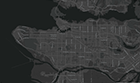
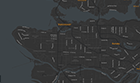
2.0.2 map styles

diff --git a/src/components/map.jsx b/src/components/map.jsx
@@ -44,42 +44,41 @@ var _currentSearchType;
 var _suppressBoundaryChangeUpdate = false;
 
 
-function CenterControl(controlDiv, map) {
-
-  // Set CSS for the control border.
-  var controlUI = document.createElement('div');
-  controlUI.style.backgroundColor = '#fff';
-  controlUI.style.border = '2px solid #fff';
-  controlUI.style.borderRadius = '3px';
-  controlUI.style.boxShadow = '0 2px 6px rgba(0,0,0,.3)';
-  controlUI.style.cursor = 'pointer';
-  controlUI.style.marginBottom = '22px';
-  controlUI.style.textAlign = 'center';
-  //controlUI.title = 'Click to recenter the map';
-  controlDiv.appendChild(controlUI);
-
-  // Set CSS for the control interior.
-  var controlText = document.createElement('div');
-  controlText.style.color = 'rgb(25,25,25)';
-  controlText.style.fontFamily = 'Roboto,Arial,sans-serif';
-  controlText.style.fontSize = '12px';
-  controlText.style.lineHeight = '26px';
-  controlText.style.paddingLeft = '5px';
-  controlText.style.paddingRight = '5px';
-  controlText.innerHTML = 'Roadmap';
-  controlUI.appendChild(controlText);
-
-  // Setup the click event listeners: simply set the map to Chicago.
-  controlUI.addEventListener('click', function () {
-    console.log('k');
-  });
-}
+//function CenterControl(controlDiv, map) {
+//  // Set CSS for the control border.
+//  var controlUI = document.createElement('div');
+//  controlUI.style.backgroundColor = '#fff';
+//  controlUI.style.border = '2px solid #fff';
+//  controlUI.style.borderRadius = '3px';
+//  controlUI.style.boxShadow = '0 2px 6px rgba(0,0,0,.3)';
+//  controlUI.style.cursor = 'pointer';
+//  controlUI.style.marginBottom = '22px';
+//  controlUI.style.textAlign = 'center';
+//  //controlUI.title = 'Click to recenter the map';
+//  controlDiv.appendChild(controlUI);
+//
+//  // Set CSS for the control interior.
+//  var controlText = document.createElement('div');
+//  controlText.style.color = 'rgb(25,25,25)';
+//  controlText.style.fontFamily = 'Roboto,Arial,sans-serif';
+//  controlText.style.fontSize = '12px';
+//  controlText.style.lineHeight = '26px';
+//  controlText.style.paddingLeft = '5px';
+//  controlText.style.paddingRight = '5px';
+//  controlText.innerHTML = 'Roadmap';
+//  controlUI.appendChild(controlText);
+//
+//  // Setup the click event listeners: simply set the map to Chicago.
+//  controlUI.addEventListener('click', function () {
+//    console.log('k');
+//  });
+//}
 
 
 var styles = {
   [C.MAP_STYLES.DEFAULT]: [{"featureType":"road","elementType":"geometry","stylers":[{"lightness":100},{"visibility":"simplified"}]},{"featureType":"water","elementType":"geometry","stylers":[{"visibility":"on"},{"color":"#C6E2FF"}]},{"featureType":"poi","elementType":"geometry.fill","stylers":[{"color":"#C5E3BF"}]},{"featureType":"road","elementType":"geometry.fill","stylers":[{"color":"#D1D1B8"}]}],
   [C.MAP_STYLES.GREY]: [{"featureType":"all","elementType":"all","stylers":[{"hue":"#ff0000"},{"saturation":-100},{"lightness":-30}]},{"featureType":"all","elementType":"labels.text.fill","stylers":[{"color":"#ffffff"}]},{"featureType":"all","elementType":"labels.text.stroke","stylers":[{"color":"#353535"}]},{"featureType":"landscape","elementType":"geometry","stylers":[{"color":"#656565"}]},{"featureType":"poi","elementType":"geometry.fill","stylers":[{"color":"#505050"}]},{"featureType":"poi","elementType":"geometry.stroke","stylers":[{"color":"#808080"}]},{"featureType":"road","elementType":"geometry","stylers":[{"color":"#454545"}]}],
-  [C.MAP_STYLES.DARK_GREY]: [{"featureType":"all","elementType":"all","stylers":[{"hue":"#ff0000"},{"saturation":-100},{"lightness":"-34"}]},{"featureType":"all","elementType":"labels.text.fill","stylers":[{"color":"#ece204"},{"saturation":"100"},{"weight":"10.00"},{"gamma":"4.40"},{"lightness":"22"}]},{"featureType":"all","elementType":"labels.text.stroke","stylers":[{"color":"#353535"},{"weight":"2.21"}]},{"featureType":"administrative.locality","elementType":"all","stylers":[{"visibility":"on"},{"color":"#ef950a"},{"weight":"0.32"},{"saturation":"36"},{"lightness":"11"},{"gamma":"1.01"}]},{"featureType":"administrative.neighborhood","elementType":"all","stylers":[{"visibility":"on"},{"hue":"#ffcd00"},{"saturation":"100"}]},{"featureType":"landscape","elementType":"geometry","stylers":[{"color":"#656565"}]},{"featureType":"poi","elementType":"geometry.fill","stylers":[{"color":"#505050"}]},{"featureType":"poi","elementType":"geometry.stroke","stylers":[{"color":"#808080"}]},{"featureType":"road","elementType":"geometry","stylers":[{"color":"#454545"}]},{"featureType":"road.highway","elementType":"geometry","stylers":[{"visibility":"off"},{"color":"#b4b87a"}]},{"featureType":"road.highway","elementType":"geometry.fill","stylers":[{"visibility":"on"},{"color":"#9d9a65"}]},{"featureType":"road.highway","elementType":"geometry.stroke","stylers":[{"visibility":"on"},{"color":"#68624b"}]},{"featureType":"road.arterial","elementType":"geometry","stylers":[{"visibility":"on"}]},{"featureType":"road.arterial","elementType":"geometry.fill","stylers":[{"visibility":"on"},{"color":"#403f3b"}]},{"featureType":"road.arterial","elementType":"geometry.stroke","stylers":[{"visibility":"on"},{"color":"#5f5e5a"}]}],
+  [C.MAP_STYLES.DARK_GREY]: [{"featureType":"all","elementType":"all","stylers":[{"visibility":"on"}]},{"featureType":"all","elementType":"geometry.stroke","stylers":[{"visibility":"off"}]},{"featureType":"all","elementType":"labels.text.fill","stylers":[{"saturation":36},{"color":"#000000"},{"lightness":"35"},{"gamma":"1"}]},{"featureType":"all","elementType":"labels.text.stroke","stylers":[{"visibility":"off"},{"color":"#000000"},{"lightness":16}]},{"featureType":"all","elementType":"labels.icon","stylers":[{"visibility":"off"}]},{"featureType":"administrative","elementType":"geometry.fill","stylers":[{"color":"#000000"},{"lightness":20}]},{"featureType":"administrative","elementType":"geometry.stroke","stylers":[{"color":"#000000"},{"lightness":17},{"weight":1.2}]},{"featureType":"administrative.locality","elementType":"all","stylers":[{"visibility":"simplified"}]},{"featureType":"administrative.locality","elementType":"geometry.fill","stylers":[{"lightness":"-11"}]},{"featureType":"administrative.locality","elementType":"labels.text","stylers":[{"color":"#e37f00"}]},{"featureType":"administrative.land_parcel","elementType":"all","stylers":[{"visibility":"on"}]},{"featureType":"landscape","elementType":"geometry","stylers":[{"color":"#000000"},{"lightness":20}]},{"featureType":"poi","elementType":"geometry","stylers":[{"color":"#000000"},{"lightness":21}]},{"featureType":"poi.park","elementType":"all","stylers":[{"visibility":"off"}]},{"featureType":"poi.park","elementType":"geometry.stroke","stylers":[{"visibility":"off"}]},{"featureType":"poi.park","elementType":"labels.text.stroke","stylers":[{"visibility":"simplified"}]},{"featureType":"poi.park","elementType":"labels.icon","stylers":[{"visibility":"off"}]},{"featureType":"road","elementType":"all","stylers":[{"visibility":"simplified"}]},{"featureType":"road","elementType":"labels.icon","stylers":[{"visibility":"off"}]},{"featureType":"road.highway","elementType":"geometry.fill","stylers":[{"color":"#475058"},{"lightness":"-48"},{"saturation":"-73"},{"weight":"3.98"}]},{"featureType":"road.highway","elementType":"geometry.stroke","stylers":[{"color":"#000000"},{"lightness":29},{"weight":0.2}]},{"featureType":"road.arterial","elementType":"geometry","stylers":[{"color":"#000000"},{"lightness":18}]},{"featureType":"road.arterial","elementType":"geometry.fill","stylers":[{"lightness":"7"}]},{"featureType":"road.arterial","elementType":"labels.text.fill","stylers":[{"lightness":"63"}]},{"featureType":"road.local","elementType":"geometry","stylers":[{"color":"#000000"},{"lightness":16},{"visibility":"off"}]},{"featureType":"road.local","elementType":"geometry.fill","stylers":[{"visibility":"on"},{"lightness":"-8"},{"gamma":"1.73"}]},{"featureType":"road.local","elementType":"geometry.stroke","stylers":[{"lightness":"-1"}]},{"featureType":"road.local","elementType":"labels.text.fill","stylers":[{"lightness":"24"}]},{"featureType":"transit","elementType":"all","stylers":[{"visibility":"off"}]},{"featureType":"transit","elementType":"geometry","stylers":[{"color":"#000000"},{"lightness":19}]},{"featureType":"water","elementType":"geometry","stylers":[{"color":"#475058"},{"lightness":17}]},{"featureType":"water","elementType":"geometry.fill","stylers":[{"color":"#d1e0e9"},{"lightness":"-70"},{"saturation":"-75"}]},{"featureType":"water","elementType":"geometry.stroke","stylers":[{"visibility":"off"}]},{"featureType":"water","elementType":"labels.text.fill","stylers":[{"lightness":"-54"},{"hue":"#ff0000"}]}], //[{"featureType":"all","elementType":"all","stylers":[{"hue":"#ff0000"},{"saturation":-100},{"lightness":"-34"}]},{"featureType":"all","elementType":"labels.text.fill","stylers":[{"color":"#ece204"},{"saturation":"100"},{"weight":"10.00"},{"gamma":"4.40"},{"lightness":"22"}]},{"featureType":"all","elementType":"labels.text.stroke","stylers":[{"color":"#353535"},{"weight":"2.21"}]},{"featureType":"administrative.locality","elementType":"all","stylers":[{"visibility":"on"},{"color":"#ef950a"},{"weight":"0.32"},{"saturation":"36"},{"lightness":"11"},{"gamma":"1.01"}]},{"featureType":"administrative.neighborhood","elementType":"all","stylers":[{"visibility":"on"},{"hue":"#ffcd00"},{"saturation":"100"}]},{"featureType":"landscape","elementType":"geometry","stylers":[{"color":"#656565"}]},{"featureType":"poi","elementType":"geometry.fill","stylers":[{"color":"#505050"}]},{"featureType":"poi","elementType":"geometry.stroke","stylers":[{"color":"#808080"}]},{"featureType":"road","elementType":"geometry","stylers":[{"color":"#454545"}]},{"featureType":"road.highway","elementType":"geometry","stylers":[{"visibility":"off"},{"color":"#b4b87a"}]},{"featureType":"road.highway","elementType":"geometry.fill","stylers":[{"visibility":"on"},{"color":"#9d9a65"}]},{"featureType":"road.highway","elementType":"geometry.stroke","stylers":[{"visibility":"on"},{"color":"#68624b"}]},{"featureType":"road.arterial","elementType":"geometry","stylers":[{"visibility":"on"}]},{"featureType":"road.arterial","elementType":"geometry.fill","stylers":[{"visibility":"on"},{"color":"#403f3b"}]},{"featureType":"road.arterial","elementType":"geometry.stroke","stylers":[{"visibility":"on"},{"color":"#5f5e5a"}]}],
   [C.MAP_STYLES.NEON]: [{"featureType":"all","elementType":"all","stylers":[{"invert_lightness":true},{"saturation":20},{"lightness":50},{"gamma":0.4},{"hue":"#00ffee"}]},{"featureType":"all","elementType":"geometry","stylers":[{"visibility":"simplified"}]},{"featureType":"all","elementType":"labels","stylers":[{"visibility":"on"}]},{"featureType":"administrative","elementType":"all","stylers":[{"color":"#ffffff"},{"visibility":"simplified"}]},{"featureType":"administrative.land_parcel","elementType":"geometry.stroke","stylers":[{"visibility":"simplified"}]},{"featureType":"landscape","elementType":"all","stylers":[{"color":"#405769"}]},{"featureType":"water","elementType":"geometry.fill","stylers":[{"color":"#232f3a"}]}],
   [C.MAP_STYLES.OLD_STYLE]: [{"featureType":"all","elementType":"labels.text.fill","stylers":[{"saturation":"-100"}]},{"featureType":"administrative.neighborhood","elementType":"geometry.fill","stylers":[{"color":"#ff0000"}]},{"featureType":"administrative.land_parcel","elementType":"geometry.fill","stylers":[{"color":"#bfc6a5"}]},{"featureType":"landscape.man_made","elementType":"geometry.fill","stylers":[{"color":"#e4e4e4"},{"lightness":"0"}]},{"featureType":"landscape.natural","elementType":"geometry.fill","stylers":[{"color":"#bfc6a5"},{"visibility":"on"}]},{"featureType":"poi","elementType":"geometry.fill","stylers":[{"color":"#e4d7c6"}]},{"featureType":"poi.attraction","elementType":"geometry.fill","stylers":[{"color":"#e4d7c6"}]},{"featureType":"poi.attraction","elementType":"labels.icon","stylers":[{"visibility":"off"}]},{"featureType":"poi.business","elementType":"geometry.fill","stylers":[{"color":"#e4d7c6"}]},{"featureType":"poi.business","elementType":"labels.icon","stylers":[{"visibility":"off"}]},{"featureType":"poi.government","elementType":"geometry.fill","stylers":[{"color":"#e4d7c6"}]},{"featureType":"poi.government","elementType":"labels.icon","stylers":[{"visibility":"off"}]},{"featureType":"poi.medical","elementType":"geometry.fill","stylers":[{"color":"#e4d7c6"}]},{"featureType":"poi.medical","elementType":"labels.icon","stylers":[{"visibility":"off"}]},{"featureType":"poi.park","elementType":"geometry.fill","stylers":[{"color":"#bfc6a5"}]},{"featureType":"poi.park","elementType":"labels.icon","stylers":[{"visibility":"off"}]},{"featureType":"poi.place_of_worship","elementType":"labels.icon","stylers":[{"visibility":"off"}]},{"featureType":"poi.school","elementType":"geometry","stylers":[{"color":"#e4d7c6"}]},{"featureType":"poi.school","elementType":"labels.icon","stylers":[{"visibility":"off"}]},{"featureType":"poi.sports_complex","elementType":"geometry","stylers":[{"color":"#e4d7c6"}]},{"featureType":"poi.sports_complex","elementType":"labels.icon","stylers":[{"visibility":"off"}]},{"featureType":"road","elementType":"geometry.fill","stylers":[{"color":"#ffffff"}]},{"featureType":"road","elementType":"geometry.stroke","stylers":[{"weight":"0.33"},{"visibility":"on"},{"color":"#333333"}]},{"featureType":"road","elementType":"labels.icon","stylers":[{"visibility":"off"},{"hue":"#ff0000"}]},{"featureType":"transit","elementType":"geometry","stylers":[{"visibility":"off"}]},{"featureType":"transit","elementType":"labels","stylers":[{"visibility":"off"}]},{"featureType":"water","elementType":"all","stylers":[{"color":"#ced6d7"}]}],
   [C.MAP_STYLES.AQUA]: [{"featureType":"administrative","elementType":"labels.text.fill","stylers":[{"color":"#6195a0"}]},{"featureType":"landscape","elementType":"all","stylers":[{"color":"#f2f2f2"}]},{"featureType":"landscape","elementType":"geometry.fill","stylers":[{"color":"#f6fafe"}]},{"featureType":"poi","elementType":"all","stylers":[{"visibility":"off"}]},{"featureType":"poi.park","elementType":"geometry.fill","stylers":[{"color":"#c0e98e"},{"visibility":"on"}]},{"featureType":"road","elementType":"all","stylers":[{"saturation":-100},{"lightness":45},{"visibility":"simplified"}]},{"featureType":"road.highway","elementType":"all","stylers":[{"visibility":"simplified"}]},{"featureType":"road.highway","elementType":"geometry.fill","stylers":[{"color":"#b5d4f5"},{"visibility":"simplified"},{"lightness":"0"},{"saturation":"0"}]},{"featureType":"road.highway","elementType":"labels.text","stylers":[{"color":"#62869f"}]},{"featureType":"road.arterial","elementType":"geometry.fill","stylers":[{"color":"#e5f3fc"}]},{"featureType":"road.arterial","elementType":"labels.text.fill","stylers":[{"color":"#787878"}]},{"featureType":"road.arterial","elementType":"labels.icon","stylers":[{"visibility":"off"},{"hue":"#00ff97"}]},{"featureType":"transit","elementType":"all","stylers":[{"visibility":"off"}]},{"featureType":"water","elementType":"all","stylers":[{"color":"#eaf6f8"},{"visibility":"on"}]},{"featureType":"water","elementType":"geometry.fill","stylers":[{"color":"#d4f3f8"}]}]
@@ -101,7 +100,7 @@ export class Map extends React.Component {
     var defaultMapOptions = {
       mapTypeId: mapTypeId,
       center: new google.maps.LatLng(this.props.lat, this.props.lng),
-      disableDefaultUI: true,
+      //disableDefaultUI: true,
       zoom: 3,
       streetViewControl: false,
       mapTypeControlOptions: {
@@ -115,11 +114,10 @@ export class Map extends React.Component {
     _map = new google.maps.Map(ReactDOM.findDOMNode(this), defaultMapOptions);
     this.addEventHandlers();
 
-    var centerControlDiv = document.createElement('div');
-    var centerControl = new CenterControl(centerControlDiv, _map);
-
-    centerControlDiv.index = 1;
-    _map.controls[google.maps.ControlPosition.TOP_CENTER].push(centerControlDiv);
+//    var centerControlDiv = document.createElement('div');
+//    var centerControl = new CenterControl(centerControlDiv, _map);
+//    centerControlDiv.index = 1;
+//    _map.controls[google.maps.ControlPosition.TOP_CENTER].push(centerControlDiv);
 
     // precache all marker images
     _.each(_icons, function (key) {

diff --git a/src/i18n/fr.jsx b/src/i18n/fr.jsx
@@ -15,6 +15,7 @@ export default {
 	aboutPara1: '{birdsearchSite} vous permet de rechercher et de parcourir ces dernières observations d\'oiseaux à travers le monde. Recherches renvoient des observations faites dans la dernière {week}, mais vous pouvez chercher aussi loin que d\'un {month} en éditant le {settingsLink}.',
 	aboutPara2: 'Les données sont extraites de {eBirdSiteLink} qui fournit beaucoup d\'autres options pour l\'affichage des données d\'observation historique. Vérifiez-le.',
 	allLocations: 'Toutes les localités',
+	aqua: 'Aqua',
   autoZoom: 'Auto-zoom',
   autoZoomSetting1: 'Ce contrôle la façon dont la carte doit se comporter après une recherche.',
   autoZoomSetting2: '{autoZoom} définit le niveau de zoom pour tout ce que vous cherchiez.',
@@ -27,7 +28,9 @@ export default {
 	contact: 'Contact',
 	contactPara1: 'Vous avez trouvé un bug? Vous avez une suggestion de fonctionnalité? Don\'t comme la façon dont se comporte quelque chose? Je\'ai l\'amour de vous entendre. Faire un commentaire sur {postLink} ou envoyez-moi un courriel à l\'adresse {email}.',
 	contactPara2: 'S\'il vous plaît noter que ce site est un projet de passe-temps, {openSourceLink}, et génère un revenu nul. Donc, si je n\'t répondre tout de suite, je\'m probablement hors birding. :)',
-  dateSeen: 'Date de Vu',
+	darkGrey: 'Gris foncé',
+	dateSeen: 'Date de Vu',
+	default: 'Défaut',
   enterLocation: 'Entrez l\'emplacement',
 	filterLocations: 'Filtre Emplacements',
 	filterSpecies: 'Filtrer les espèces',
@@ -35,6 +38,7 @@ export default {
 	findInArea: 'Trouvez les observations d\'oiseaux dans votre région.',
 	findAnywhere: 'Trouvez les observations d\'oiseaux partout.',
 	foundHere: 'trouvé ici',
+	grey: 'Gris',
 	help: 'Aidez',
 	history: 'Histoire',
 	historyPara1: 'Comme beaucoup d\'observateurs d\'oiseaux que je connais, découvrant {eBirdSiteLink} était une cause de célébration. Elle a birding sur les âges sombres de stylo et crayon et à l\'ère numérique. Maintenant, nous avons une place simple et centralisée pour suivre les observations, partager leurs connaissances et d\'ouvrir les données pour tout le monde.',
@@ -47,7 +51,9 @@ export default {
 	locationNotFound: 'Désolé, cet endroit n\'a pas été trouvé, s\'il vous plaît essayer à nouveau.',
 	locations: 'Emplacements',
 	login: 'S\'identifier',
+  mapStyles: 'Carte styles',
   month: 'mois',
+  neon: 'Néon',
 	noLocations: 'Aucun emplacement.',
   noResultsFound: 'Désolé, aucun résultat n\'a été trouvé.',
   notableBirds: 'Oiseaux notables',
@@ -55,6 +61,7 @@ export default {
   notReviewed: 'Non examiné',
 	numSightingsAtLocation: '{numSpecies} espèces d\'oiseaux vues au cours des {obsRecency} derniers jour(s)',
 	numReported: '#',
+  oldStyle: 'Old style',
 	openSource: 'open source',
 	or: 'OU',
 	pleaseEnterLocationSearchDefault: 'S\'il vous plaît entrer un emplacement',

diff --git a/src/i18n/de.jsx b/src/i18n/de.jsx
@@ -15,6 +15,7 @@ export default {
   aboutPara1: '{birdsearchSite} können Sie suchen und blättern letzten weltweiten Vogelbeobachtungen. Sucht Rückkehrbeobachtungen, die in der letzten {week} gemacht wurden, aber Sie können so weit zurück wie ein {month} suchen, indem Sie das {settingsLink} bearbeiten.',
   aboutPara2: 'Die Daten werden von {eBirdSiteLink} gezogen, das viele andere Optionen für die Anzeige historischer Beobachtungsdaten bietet. Hör zu.',
   allLocations: 'Alle Orte',
+  aqua: 'Wasser',
   autoZoom: 'Auto-zoom',
   autoZoomSetting1: 'Dies steuert, wie sich die Karte nach einer Suche verhalten soll.',
   autoZoomSetting2: '{autoZoom} setzt den Zoomfaktor auf das, was Sie gesucht haben.',
@@ -27,7 +28,9 @@ export default {
   contact: 'Kontakt',
   contactPara1: 'Einen Fehler gefunden? Haben Sie einen Feature-Vorschlag? Don\'t wie die Art und Weise etwas verhält? Erstellen Sie ein Problem auf {postLink} oder senden Sie mir eine E-Mail an {email}.',
   contactPara2: 'Bitte beachten Sie, dass es sich bei dieser Website um ein Hobbyprojekt, {openSourceLink}, handelt und generiert kein Einkommen. Wenn ich nicht sofort reagiere, bin ich wahrscheinlich aus Vogelbeobachtung. aufrechtzuerhalten.',
+  darkGrey: 'Dunkelgrau',
   dateSeen: 'Datum angezeigt',
+  default: 'Standard',
   enterLocation: 'Ort eingeben',
   filterLocations: 'Filterstellen',
   filterSpecies: 'Filterarten',
@@ -35,6 +38,7 @@ export default {
   findInArea: 'Finden Sie Vogelbeobachtungen in Ihrer Nähe.',
   findAnywhere: 'Finden Sie Vogelbeobachtungen überall.',
   foundHere: 'finden Sie hier',
+  grey: 'Grau',
   help: 'Hilfe',
   history: 'Geschichte',
   historyPara1: 'Wie viele Vogelbeobachter Ich weiß, die Entdeckung {eBirdSiteLink} war ein Grund zum Feiern. Es brachte Vogelbeobachtung aus dem dunklen Alter von Stift und Bleistift und in das digitale Zeitalter. Jetzt haben wir einen einfachen, zentralen Ort, um Beobachtungen zu verfolgen, Wissen zu teilen und die Daten für alle zu öffnen.',
@@ -47,7 +51,9 @@ export default {
   locationNotFound: 'Dieser Ort konnte nicht gefunden werden. Bitte versuchen Sie es erneut.',
   locations: 'Niederlassungen',
   login: 'Anmeldung',
+  mapStyles: 'Karte Stile',
   month: 'Monat',
+  neon: 'Neon',
   noLocations: 'Keine Standorte.',
   noResultsFound: 'Es wurden leider keine Ergebnisse gefunden.',
   notableBirds: 'Bemerkenswerte Vögel',
@@ -55,6 +61,7 @@ export default {
   notReviewed: 'Nicht überprüft',
   numSightingsAtLocation: '{numSpecies} Vogelarten gesehen in den letzten {obsRecency} Tag (e)',
   numReported: '#',
+  oldStyle: 'Alter Stil',
   openSource: 'open source',
   or: 'ODER',
   pleaseEnterLocationSearchDefault: 'Bitte geben Sie einen Ort ein',

diff --git a/src/i18n/es.jsx b/src/i18n/es.jsx
@@ -15,6 +15,7 @@ export default {
   aboutPara1: '{birdsearchSite} te permite buscar y navegar por avistamientos de aves en todo el mundo. Busca las observaciones de retorno realizadas en la {week} anterior pero puede buscar desde un {month} editando el {settingsLink}.',
   aboutPara2: 'Los datos se extraen de {eBirdSiteLink}, que ofrece muchas otras opciones para ver los datos de observación históricos. Echale un vistazo.',
   allLocations: 'Todas las localizaciones',
+  aqua: 'Agua',
   autoZoom: 'Auto-zoom',
   autoZoomSetting1: 'Esto controla cómo debe comportarse el mapa después de una búsqueda.',
   autoZoomSetting2: '{autoZoom} ajusta el nivel de zoom a lo que buscaba.',
@@ -27,7 +28,9 @@ export default {
   contact: 'Contacto',
   contactPara1: '¿Encontraste un error? ¿Tiene una sugerencia de funciones? ¿No le gusta la forma en que se comporta algo? Crea un problema en {postLink} o envíame un correo electrónico a {email}.',
   contactPara2: 'Tenga en cuenta que este sitio es un proyecto de hobby, {openSourceLink}, y genera cero ingresos. Si no respondo de inmediato, probablemente estaré observando aves. :)',
+  darkGrey: 'Gris oscuro',
   dateSeen: 'Fecha Visto',
+  default: 'Defecto',
   enterLocation: 'Ingresar la ubicación',
   filterLocations: 'Filtrar ubicaciones',
   filterSpecies: 'Filtrar Especies',
@@ -35,6 +38,7 @@ export default {
   findInArea: 'Encuentre avistamientos de aves en su área.',
   findAnywhere: 'Encuentre avistamientos de aves en cualquier lugar.',
   foundHere: 'encontrado aquí',
+  grey: 'Gris',
   help: 'Ayuda',
   history: 'Historia',
   historyPara1: 'Como muchos observadores de aves que conozco, descubrir {eBirdSiteLink} fue motivo de celebración. Trajo el birding fuera de las edades oscuras de la pluma y del lápiz y en la era digital. Ahora tenemos un lugar sencillo y centralizado para rastrear las observaciones, compartir el conocimiento y abrir los datos para todos.',
@@ -47,7 +51,9 @@ export default {
   locationNotFound: 'Lo sentimos, no se pudo encontrar esa ubicación. Vuelve a intentarlo.',
   locations: 'Ubicaciones',
   login: 'Iniciar sesión',
+  mapStyles: 'Estilos de mapas',
   month: 'mes',
+  neon: 'Neón',
   noLocations: 'No hay ubicaciones.',
   noResultsFound: 'Lo sentimos, no se encontraron resultados.',
   notableBirds: 'Pájaros notables',
@@ -55,6 +61,7 @@ export default {
   notReviewed: 'No revisado',
   numSightingsAtLocation: '{NumSpecies} especies de aves observadas en la última {obsRecency} día (s)',
   numReported: '#',
+  oldStyle: 'Viejo estilo',
   openSource: 'open source',
   or: 'O',
   pleaseEnterLocationSearchDefault: 'Introduzca una ubicación',

diff --git a/src/components/settings.jsx b/src/components/settings.jsx
@@ -190,15 +190,6 @@ class SearchSettings extends React.Component {
           </span>
         </div>
 
-        <div className="observation-recency-setting">
-          <span>
-            <FormattedMessage id="showObservationsMade"
-              values={{
-                days: <DaysDropdown value={observationRecency} onChange={(val) => { dispatch(actions.setObservationRecency(val)); }} />
-              }} />
-          </span>
-        </div>
-
         <div className="settings-row">
           <span className="settings-row-label"><FormattedMessage id="speciesName" /></span>
           <span className="search-type">
@@ -206,6 +197,15 @@ class SearchSettings extends React.Component {
               <input type="checkbox" id="scientific-name" checked={showScientificName} onChange={this.toggleScientificName} />
                 <label htmlFor="scientific-name"><FormattedMessage id="includeSciName" /></label>
             </span>
+          </span>
+        </div>
+
+        <div className="observation-recency-setting">
+          <span>
+            <FormattedMessage id="showObservationsMade"
+              values={{
+                days: <DaysDropdown value={observationRecency} onChange={(val) => { dispatch(actions.setObservationRecency(val)); }} />
+              }} />
           </span>
         </div>
 

diff --git a/src/i18n/en.jsx b/src/i18n/en.jsx
@@ -28,7 +28,7 @@ export default {
   contact: 'Contact',
   contactPara1: 'Found a bug? Have a feature suggestion? Don\'t like the way something behaves? Create an issue on {postLink} or send me an email at {email}.',
   contactPara2: 'Please note that this site is a hobby project, {openSourceLink}, and generates zero income. If I don\'t respond right away, I\'m probably out birding. :)',
-  darkGrey: 'Dark Grey',
+  darkGrey: 'Dark',
   dateSeen: 'Date Seen',
   default: 'Default',
   enterLocation: 'Enter Location',
@@ -70,7 +70,7 @@ export default {
   reportBirdSightings: 'Report bird sightings',
   reportedBy: 'Reported By',
   reportSightings: 'Report Sightings',
-  reportSightingsText: 'The bird sightings listed on this site come from {link}. Anyone in the world can sign up and submit their own observations. Click the button below to get started!',
+  reportSightingsText: 'The bird sightings listed on this site come from {link}. Anyone can sign up and submit their own observations. Click the button below to get started!',
   resultType: 'Result type',
   reviewed: 'Reviewed',
   rightNow: 'right now',

diff --git a/Gruntfile.js b/Gruntfile.js
@@ -123,7 +123,7 @@ module.exports = function(grunt) {
 	};
 
 	grunt.initConfig(config);
-  grunt.registerTask('build', ['template:prod', 'env', 'babel:jsx', 'browserify', 'uglify', 'sass', 'copy', 'cssmin']);
-  grunt.registerTask('dev', ['template:dev', 'env', 'babel:jsx', 'browserify', 'sass', 'copy']);
+  grunt.registerTask('prod', ['env', 'babel:jsx', 'browserify', 'uglify', 'sass', 'copy', 'cssmin', 'template:prod']);
+  grunt.registerTask('dev', ['env', 'babel:jsx', 'browserify', 'sass', 'copy', 'template:dev']);
   grunt.registerTask('start', ['dev', 'watch']);
 };
